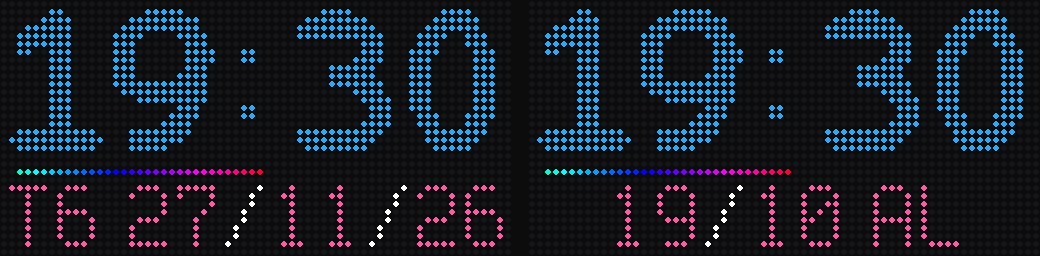
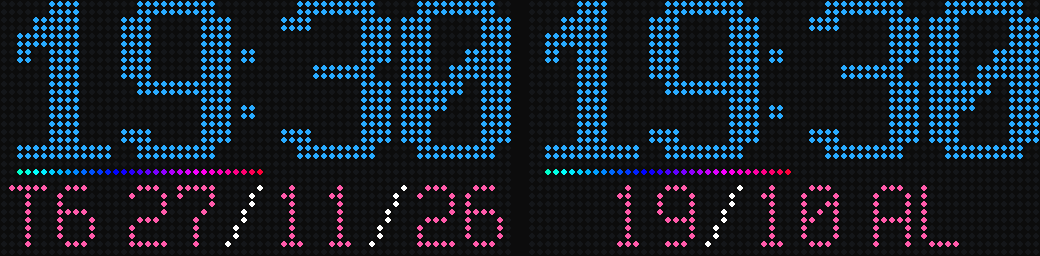
fix: replace custom clock digits with existing Spleen pixel font

diff --git a/tools/gen_clock_font.py b/tools/gen_clock_font.py
@@ -1,53 +1,24 @@
 """Sinh bitmap đồng hồ ở kích thước gốc; không kéo giãn glyph lúc hiển thị.
 
-Chạy: PYTHONPATH=build/python-packages python tools/gen_clock_font.py
-Số rounded tự thiết kế; chữ nhỏ từ Spleen 6x12 trong tools/gen_fonts/font_src.
+Chạy: python tools/gen_clock_font.py (không cần thư viện ngoài)
+Font bitmap Spleen 8x16 và 6x12 có sẵn trong tools/gen_fonts/font_src.
 """
 from pathlib import Path
-from PIL import Image, ImageDraw, ImageFont
 import re
 ROOT = Path(__file__).resolve().parents[1]
 SRC = ROOT / 'tools/gen_fonts/font_src'
-# Số rounded tự thiết kế trong ô 14x19, nét 3 px và đầu nét tròn.
-# Dựng đường cong ở độ phân giải 4x rồi lấy mẫu về đúng lưới LED.
-SCALE = 4
+# Spleen 8x16 bitmap có sẵn (BSD-2-Clause), phóng nguyên pixel 2x.
+# Chữ số có phần nét 7x10 trong ô 8x16 -> bitmap 14x20 nét đậm.
 large = []
-def curve(p0,p1,p2,p3):
-    return [tuple((1-t)**3*p0[i]+3*(1-t)**2*t*p1[i]+3*(1-t)*t*t*p2[i]+t**3*p3[i] for i in (0,1)) for t in [j/32 for j in range(33)]]
-def stroke(draw, points):
-    points=[(round(x*SCALE),round(y*SCALE)) for x,y in points]
-    draw.line(points,fill=255,width=3*SCALE,joint='curve')
-    radius=1.5*SCALE
-    for x,y in (points[0],points[-1]):
-        draw.ellipse((x-radius,y-radius,x+radius,y+radius),fill=255)
-for digit in range(10):
-    im=Image.new('L',(14*SCALE,19*SCALE))
-    d=ImageDraw.Draw(im)
-    if digit==0:
-        d.ellipse((1*SCALE,0,12*SCALE,18*SCALE),outline=255,width=3*SCALE)
-    elif digit==1:
-        stroke(d,[(3,4),(7,1.5),(7,16.5)])
-        stroke(d,[(3,16.5),(11,16.5)])
-    elif digit==2:
-        stroke(d,curve((2.5,4),(3,-0.5),(11.5,-0.5),(11,5))+curve((11,5),(11,8),(4,11),(2,16.5))+[(11,16.5)])
-    elif digit==3:
-        stroke(d,curve((2.5,2.5),(10,-1),(14,7),(6,8.5))+curve((6,8.5),(14,8),(13,20),(2.5,16)))
-    elif digit==4:
-        stroke(d,[(9,1.5),(2,11),(11,11)])
-        stroke(d,[(9,1.5),(9,16.5)])
-    elif digit==5:
-        stroke(d,[(10.5,1.5),(3,1.5),(2.5,8)]+curve((2.5,8),(14,4),(15,21),(2,16)))
-    elif digit==6:
-        stroke(d,curve((10,2),(2,-0.5),(0,17),(6.5,17))+curve((6.5,17),(14,18),(14,6),(6.5,8))+curve((6.5,8),(3,8),(2,10),(2,12)))
-    elif digit==7:
-        stroke(d,[(2,1.5),(11,1.5),(5,16.5)])
-    elif digit==8:
-        d.ellipse((1.5*SCALE,0,11.5*SCALE,9.5*SCALE),outline=255,width=3*SCALE)
-        d.ellipse((1*SCALE,7.5*SCALE,12*SCALE,18*SCALE),outline=255,width=3*SCALE)
-    else:
-        stroke(d,curve((3,16),(11,19),(14,1),(7,1.5))+curve((7,1.5),(-1,0.5),(-1,13),(7,10))+curve((7,10),(10,10),(11,8),(11,6)))
-    glyph=im.resize((14,19),Image.Resampling.LANCZOS)
-    rows=[sum(1<<(13-x) for x in range(14) if glyph.getpixel((x,y))>=128) for y in range(19)]
+bdf_large = (SRC / 'spleen-8x16.bdf').read_text()
+for digit in '0123456789':
+    block = next(b for b in bdf_large.split('STARTCHAR ')[1:] if re.search(r'^ENCODING '+str(ord(digit))+r'$', b, re.M))
+    source = [int(line,16) for line in block.split('BITMAP\n')[1].split('ENDCHAR')[0].splitlines()][2:12]
+    rows = []
+    for row in source:
+        assert row & 1 == 0  # Cột trống cuối ô font gốc.
+        doubled = sum(3 << (12-2*x) for x in range(7) if row & (128 >> x))
+        rows.extend((doubled,doubled))
     large.append(rows)
 # Chữ lịch pixel gốc 5x8, từ BDF Spleen 6x12 (BSD-2-Clause).
 bdf = (SRC / 'spleen-6x12.bdf').read_text()
@@ -58,10 +29,10 @@ for char in chars:
     rows = [int(line,16) >> 3 for line in block.split('BITMAP\n')[1].split('ENDCHAR')[0].splitlines()]
     small.append(rows[1:9])
 out = ['// Sinh bằng tools/gen_clock_font.py. Không sửa tay.',
-       '// Giờ: rounded tự thiết kế, nét tròn 3 px.',
+       '// Giờ: Spleen 8x16, phóng nguyên pixel 2x (BSD-2-Clause).',
        '// Lịch: Spleen 6x12, Frederic Cambus (BSD-2-Clause).',
        '#pragma once', '#include <stdint.h>',
-       'static const uint16_t CLOCK_DIGITS[10][19] = {']
+       'static const uint16_t CLOCK_DIGITS[10][20] = {']
 for rows in large:
     out.append('    {'+', '.join(hex(v) for v in rows)+'},')
 out += ['};', 'static const char CLOCK_SMALL_CODES[] = "'+chars+'";',
@@ -70,4 +41,4 @@ for rows in small:
     out.append('    {'+', '.join(hex(v) for v in rows)+'},')
 out += ['};', '']
 (ROOT / 'main/gfx/clock_font.h').write_text('\n'.join(out),encoding='utf-8')
-print('Generated rounded 14x19 clock digits and 5x8 calendar glyphs')
+print('Generated Spleen pixel 14x20 clock digits and 5x8 calendar glyphs')

diff --git a/main/gfx/clock_font.h b/main/gfx/clock_font.h
@@ -1,19 +1,19 @@
 // Sinh bằng tools/gen_clock_font.py. Không sửa tay.
-// Giờ: rounded tự thiết kế, nét tròn 3 px.
+// Giờ: Spleen 8x16, phóng nguyên pixel 2x (BSD-2-Clause).
 // Lịch: Spleen 6x12, Frederic Cambus (BSD-2-Clause).
 #pragma once
 #include <stdint.h>
-static const uint16_t CLOCK_DIGITS[10][19] = {
-    {0x1e0, 0x3f0, 0x7f0, 0xf38, 0xe38, 0x1e1c, 0x1c1c, 0x1c1c, 0x1c1c, 0x1c1c, 0x1c1c, 0x1c1c, 0x1c1c, 0xe3c, 0xe38, 0x7f8, 0x7f0, 0x3e0, 0x0},
-    {0xc0, 0x1e0, 0x7e0, 0xfe0, 0xfe0, 0xce0, 0xe0, 0xe0, 0xe0, 0xe0, 0xe0, 0xe0, 0xe0, 0xe0, 0xe0, 0xffc, 0x1ffe, 0xffc, 0x0},
-    {0x7f0, 0xffc, 0xf3c, 0x1c1e, 0x1c0e, 0x81e, 0x1c, 0x3c, 0x78, 0xf0, 0x1e0, 0x3c0, 0x780, 0xf00, 0xe00, 0x1ffc, 0x1ffe, 0x1ffc, 0x0},
-    {0x3c0, 0xff0, 0x1ff8, 0x1ffc, 0x1c, 0x1c, 0x3c, 0x1f8, 0x1f8, 0x1fc, 0x3c, 0x1e, 0xe, 0xe, 0x1e, 0x1ffc, 0x1ff8, 0xff0, 0x0},
-    {0x30, 0x78, 0x78, 0xf8, 0x1f8, 0x3f8, 0x3f8, 0x7b8, 0xf38, 0x1f38, 0x1ffe, 0x1ffe, 0xffc, 0x38, 0x38, 0x38, 0x78, 0x30, 0x0},
-    {0xffc, 0xffc, 0xffc, 0xe00, 0x1c00, 0xc00, 0x1fc0, 0x1ff0, 0x1ffc, 0xc3c, 0x1e, 0xe, 0xe, 0xe, 0x1e, 0x1ffc, 0x1ffc, 0x1ff0, 0x80},
-    {0x70, 0xfc, 0x3fc, 0x7d8, 0x700, 0xf00, 0xfe0, 0xff8, 0xffc, 0x1f9e, 0x1c0e, 0x1c07, 0x1e0f, 0x1e0f, 0xe0e, 0xf1e, 0x7fc, 0x3f8, 0xe0},
-    {0x1ffc, 0x3ffe, 0x1ffe, 0x1c, 0x3c, 0x38, 0x38, 0x78, 0x70, 0xf0, 0xe0, 0xe0, 0x1e0, 0x1c0, 0x3c0, 0x380, 0x780, 0x300, 0x0},
-    {0x3e0, 0x7f0, 0xff8, 0xe3c, 0x1e1c, 0xe1c, 0xf38, 0xff8, 0x7f0, 0xff8, 0xffc, 0x1c1c, 0x1c1c, 0x1c1c, 0x1e1c, 0xff8, 0x7f8, 0x3e0, 0x0},
-    {0x3e0, 0xff8, 0x1ff8, 0x3c3c, 0x381c, 0x381e, 0x381e, 0x381c, 0x383c, 0x3ffc, 0x1ffc, 0x7fc, 0x38, 0x78, 0xf0, 0xff0, 0xfe0, 0xf80, 0x0},
+static const uint16_t CLOCK_DIGITS[10][20] = {
+    {0xffc, 0xffc, 0x3c0f, 0x3c0f, 0x3c0f, 0x3c0f, 0x3c3f, 0x3c3f, 0x3cff, 0x3cff, 0x3fcf, 0x3fcf, 0x3f0f, 0x3f0f, 0x3c0f, 0x3c0f, 0x3c0f, 0x3c0f, 0xffc, 0xffc},
+    {0xf0, 0xf0, 0x3f0, 0x3f0, 0xff0, 0xff0, 0xcf0, 0xcf0, 0xf0, 0xf0, 0xf0, 0xf0, 0xf0, 0xf0, 0xf0, 0xf0, 0xf0, 0xf0, 0xfff, 0xfff},
+    {0xffc, 0xffc, 0x3c0f, 0x3c0f, 0xf, 0xf, 0xf, 0xf, 0x3c, 0x3c, 0xf0, 0xf0, 0x3c0, 0x3c0, 0xf00, 0xf00, 0x3c0f, 0x3c0f, 0x3fff, 0x3fff},
+    {0xffc, 0xffc, 0x3c0f, 0x3c0f, 0xf, 0xf, 0xf, 0xf, 0x3fc, 0x3fc, 0xf, 0xf, 0xf, 0xf, 0xf, 0xf, 0x3c0f, 0x3c0f, 0xffc, 0xffc},
+    {0x3c00, 0x3c00, 0x3c00, 0x3c00, 0x3c3c, 0x3c3c, 0x3c3c, 0x3c3c, 0x3c3c, 0x3c3c, 0x3c3c, 0x3c3c, 0x3fff, 0x3fff, 0x3c, 0x3c, 0x3c, 0x3c, 0x3c, 0x3c},
+    {0x3fff, 0x3fff, 0x3c0f, 0x3c0f, 0x3c00, 0x3c00, 0x3c00, 0x3c00, 0x3ffc, 0x3ffc, 0xf, 0xf, 0xf, 0xf, 0xf, 0xf, 0x3c0f, 0x3c0f, 0xffc, 0xffc},
+    {0xffc, 0xffc, 0x3c0f, 0x3c0f, 0x3c00, 0x3c00, 0x3c00, 0x3c00, 0x3ffc, 0x3ffc, 0x3c0f, 0x3c0f, 0x3c0f, 0x3c0f, 0x3c0f, 0x3c0f, 0x3c0f, 0x3c0f, 0xffc, 0xffc},
+    {0x3fff, 0x3fff, 0x3c0f, 0x3c0f, 0xf, 0xf, 0xf, 0xf, 0x3c, 0x3c, 0xf0, 0xf0, 0x3c0, 0x3c0, 0x3c0, 0x3c0, 0x3c0, 0x3c0, 0x3c0, 0x3c0},
+    {0xffc, 0xffc, 0x3c0f, 0x3c0f, 0x3c0f, 0x3c0f, 0x3c0f, 0x3c0f, 0xffc, 0xffc, 0x3c0f, 0x3c0f, 0x3c0f, 0x3c0f, 0x3c0f, 0x3c0f, 0x3c0f, 0x3c0f, 0xffc, 0xffc},
+    {0xffc, 0xffc, 0x3c0f, 0x3c0f, 0x3c0f, 0x3c0f, 0x3c0f, 0x3c0f, 0x3c0f, 0x3c0f, 0xfff, 0xfff, 0xf, 0xf, 0xf, 0xf, 0x3c0f, 0x3c0f, 0xffc, 0xffc},
 };
 static const char CLOCK_SMALL_CODES[] = "0123456789ABCDEFGHIJKLMNOPQRSTUVWXYZ:/.- ";
 static const uint8_t CLOCK_SMALL[][8] = {

diff --git a/main/gfx/clock_face.cpp b/main/gfx/clock_face.cpp
@@ -34,10 +34,10 @@ void clock_face_draw(const char *text,int y,int,Rgb color) {
 }
 void clock_face_time(int hour,int minute,bool colon,Rgb color) {
     const int digits[]={hour/10,hour%10,minute/10,minute%10};
-    const int xs[]={0,14,36,50};
-    for(int i=0;i<4;++i) for(int row=0;row<19;++row) for(int col=0;col<14;++col) {
+    const int xs[]={0,15,35,50};
+    for(int i=0;i<4;++i) for(int row=0;row<20;++row) for(int col=0;col<14;++col) {
         if(CLOCK_DIGITS[digits[i]][row]&(1<<(13-col)))
-            panel_set_pixel(xs[i]+col,row+1,color.r,color.g,color.b);
+            panel_set_pixel(xs[i]+col,row,color.r,color.g,color.b);
     }
     if(colon) for(int row=0;row<2;++row) for(int col=0;col<2;++col) {
         panel_set_pixel(30+col,6+row,color.r,color.g,color.b);

diff --git a/main/gfx/clock_face.h b/main/gfx/clock_face.h
@@ -1,6 +1,6 @@
 #pragma once
 #include "gfx/color.h"
-// Font bitmap tự nhiên: giờ cao 19 px, lịch cao 8 px, không kéo giãn.
+// Font bitmap tự nhiên: giờ Spleen pixel cao 20 px, lịch cao 8 px, không kéo giãn.
 void clock_face_time(int hour, int minute, bool colon, Rgb color);
 // 60 pixel giữa panel, thêm một pixel mỗi giây; chỉ dùng hàng y=21.
 void clock_face_seconds(int second);

diff --git a/README.md b/README.md
@@ -4,7 +4,7 @@ Nhánh `feature/p5-clock` chuyển ứng dụng sang đồng hồ Việt Nam (UT
 
 ![Xem trước bitmap giờ và lịch](docs/clock-preview.png)
 
-- Chỉ hai hàng: giờ/phút 24 giờ cao **19 px**, lịch bitmap cao **8 px** (nét gốc, không kéo giãn).
+- Chỉ hai hàng: giờ/phút 24 giờ cao **20 px**, lịch bitmap cao **8 px** (nét gốc, không kéo giãn).
 - Vạch giây cao 1 pixel tại hàng 21 giữa giờ và lịch, 60 LED (chừa 2 pixel mỗi mép): thêm một LED mỗi giây, đầy ở giây 59 rồi bắt đầu lại ở giây 00. Dải rainbow chạy màu theo giây.
 - Dấu hai chấm bật/tắt theo từng giây; màu giờ thay đổi mỗi giờ, màu lịch thay đổi mỗi ngày tại UTC+7. Dấu `/` luôn màu trắng để dễ phân biệt với chữ lịch.
 - Hàng lịch luân phiên mỗi **6 giây**: `T6 27/11/26` và `19/10 AL` (thêm `N` nếu tháng nhuận).
@@ -61,9 +61,9 @@ Mã ứng dụng bảng chữ/ghép màn hình cũ vẫn được giữ làm tha
 
 ## Font đồng hồ
 
-Số giờ rounded được thiết kế bằng đường cong, nét 3 px và đầu nét tròn trong ô 14×19; lịch dùng Spleen 6x12, phần nét cao 8 px. Không dùng số bảy đoạn hay kéo bitmap 3x5. Bitmap đã sinh được commit nên build ESP-IDF không cần Pillow.
+Số giờ dùng font bitmap Spleen 8x16 có sẵn (Frederic Cambus, BSD-2-Clause), phóng nguyên pixel 2× thành phần nét 14×20; lịch dùng Spleen 6x12, phần nét cao 8 px. Không dùng số bảy đoạn hay kéo bitmap 3x5. Bitmap đã sinh được commit nên build ESP-IDF không cần Pillow.
 
-Sinh lại bằng `python tools/gen_clock_font.py` (cần Pillow). Giấy phép: `tools/gen_fonts/font_src/LICENSE-DejaVu.txt`, `tools/gen_fonts/font_src/LICENSE-Spleen.txt`.
+Sinh lại bằng `python tools/gen_clock_font.py` (chỉ cần Python, không cần thư viện ngoài). Giấy phép: `tools/gen_fonts/font_src/LICENSE-DejaVu.txt`, `tools/gen_fonts/font_src/LICENSE-Spleen.txt`.
 
 API cấu hình: `GET /scan?refresh=1` yêu cầu quét; `GET /scan` trả `scanning` và danh sách `{ssid,rssi,secured}`. Quét thực hiện trong tác vụ mạng; màn hình vẫn cập nhật độc lập. Chặn quét khi đang thử kết nối để tránh xung đột driver.
 

diff --git a/CHANGELOG.md b/CHANGELOG.md
@@ -1,3 +1,8 @@
+# 2.3.1 — Font giờ pixel có sẵn
+
+- Thay toàn bộ số giờ tự thiết kế bằng bitmap Spleen 8x16 phóng 2×, nét đậm, cao 20 px.
+- Giữ thanh rainbow, bảng màu giờ/ngày, lịch và trạng thái khởi động.
+
 # 2.3.0 — Rounded, rainbow và bảng màu tùy chọn
 
 - Thiết kế lại 10 chữ số bằng đường cong, nét tròn 3 px, giữ ô 14×19.
